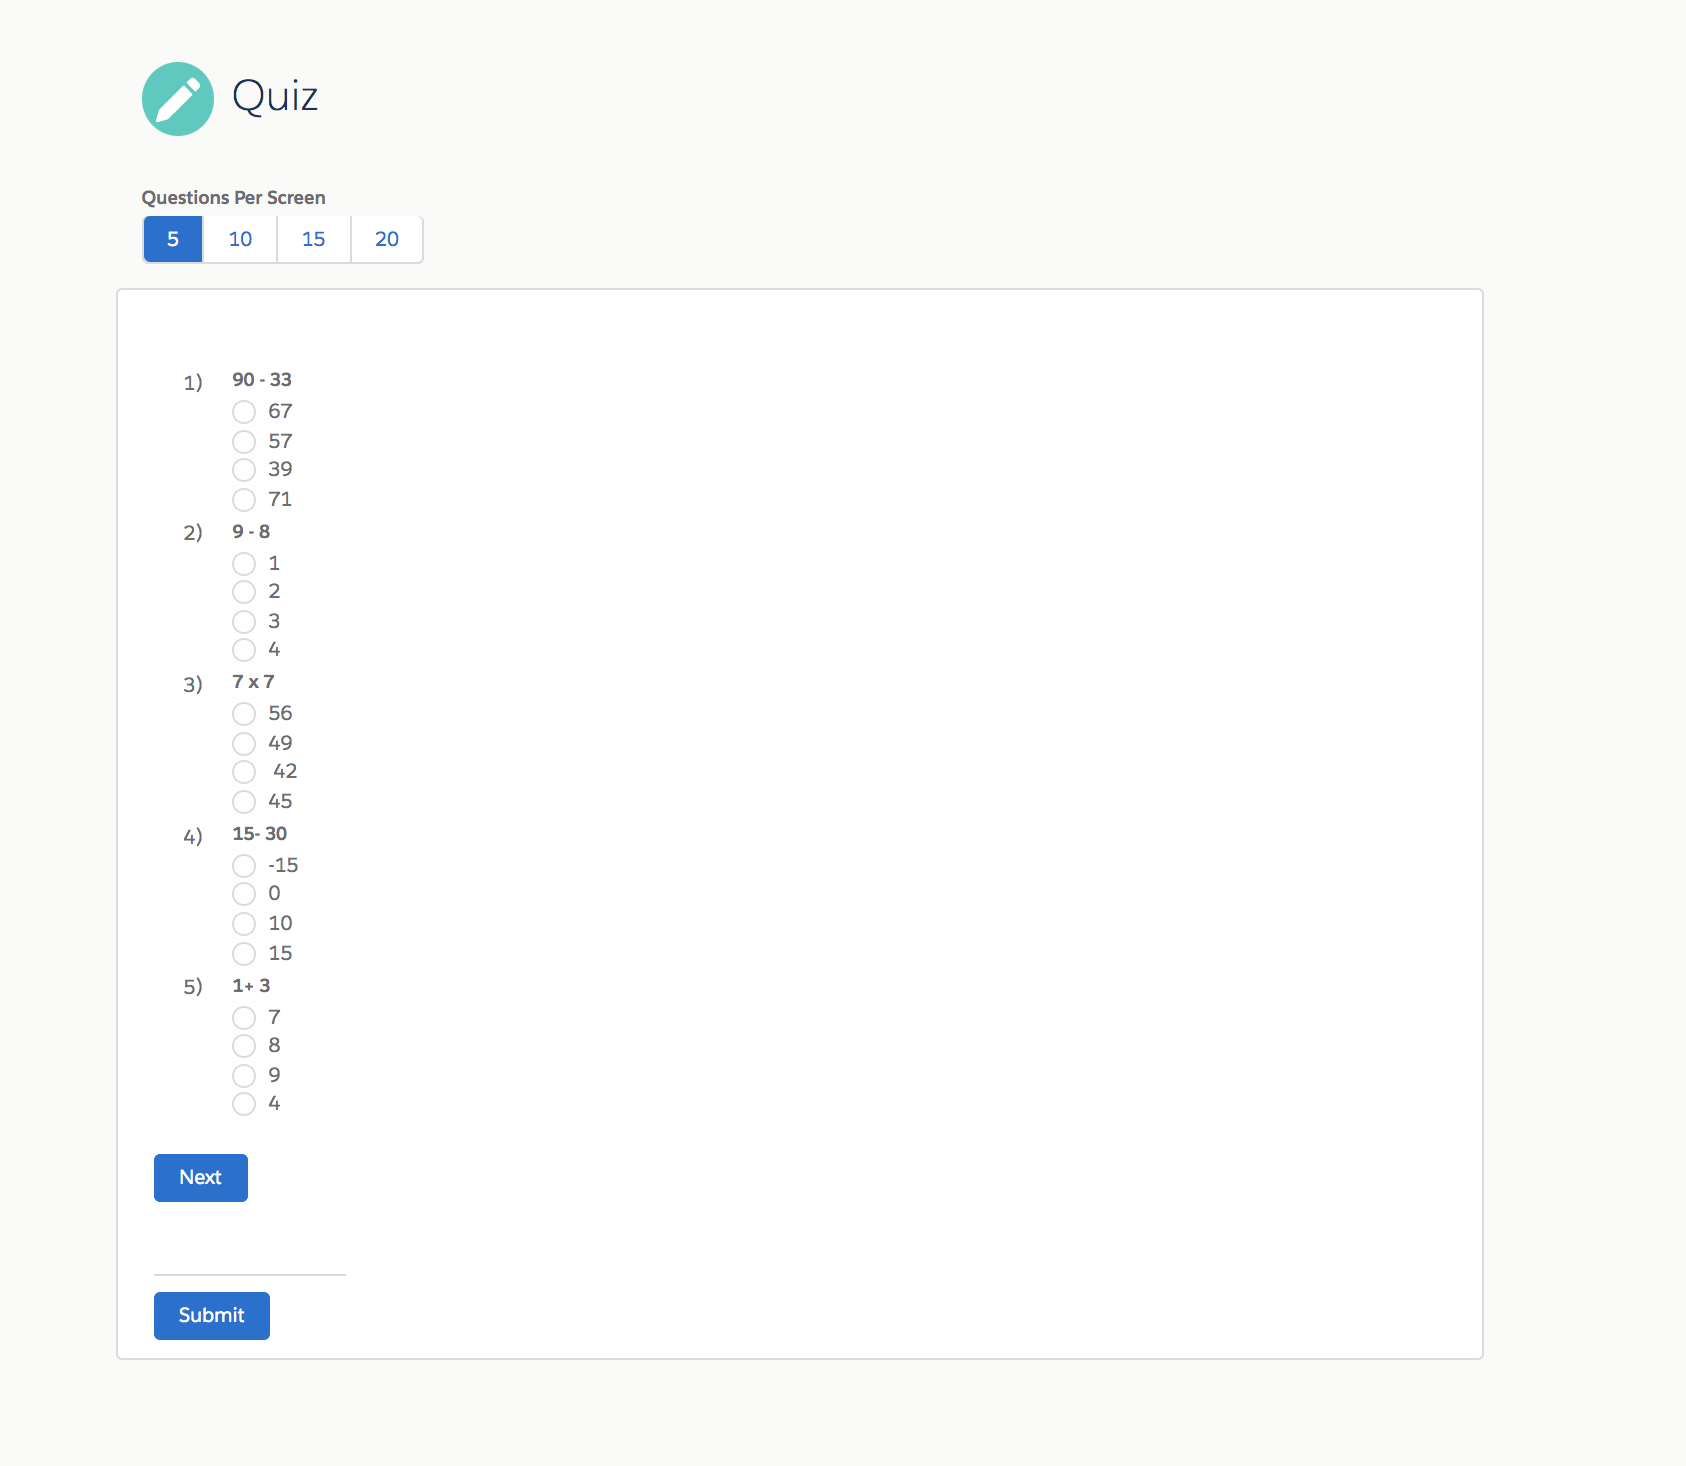
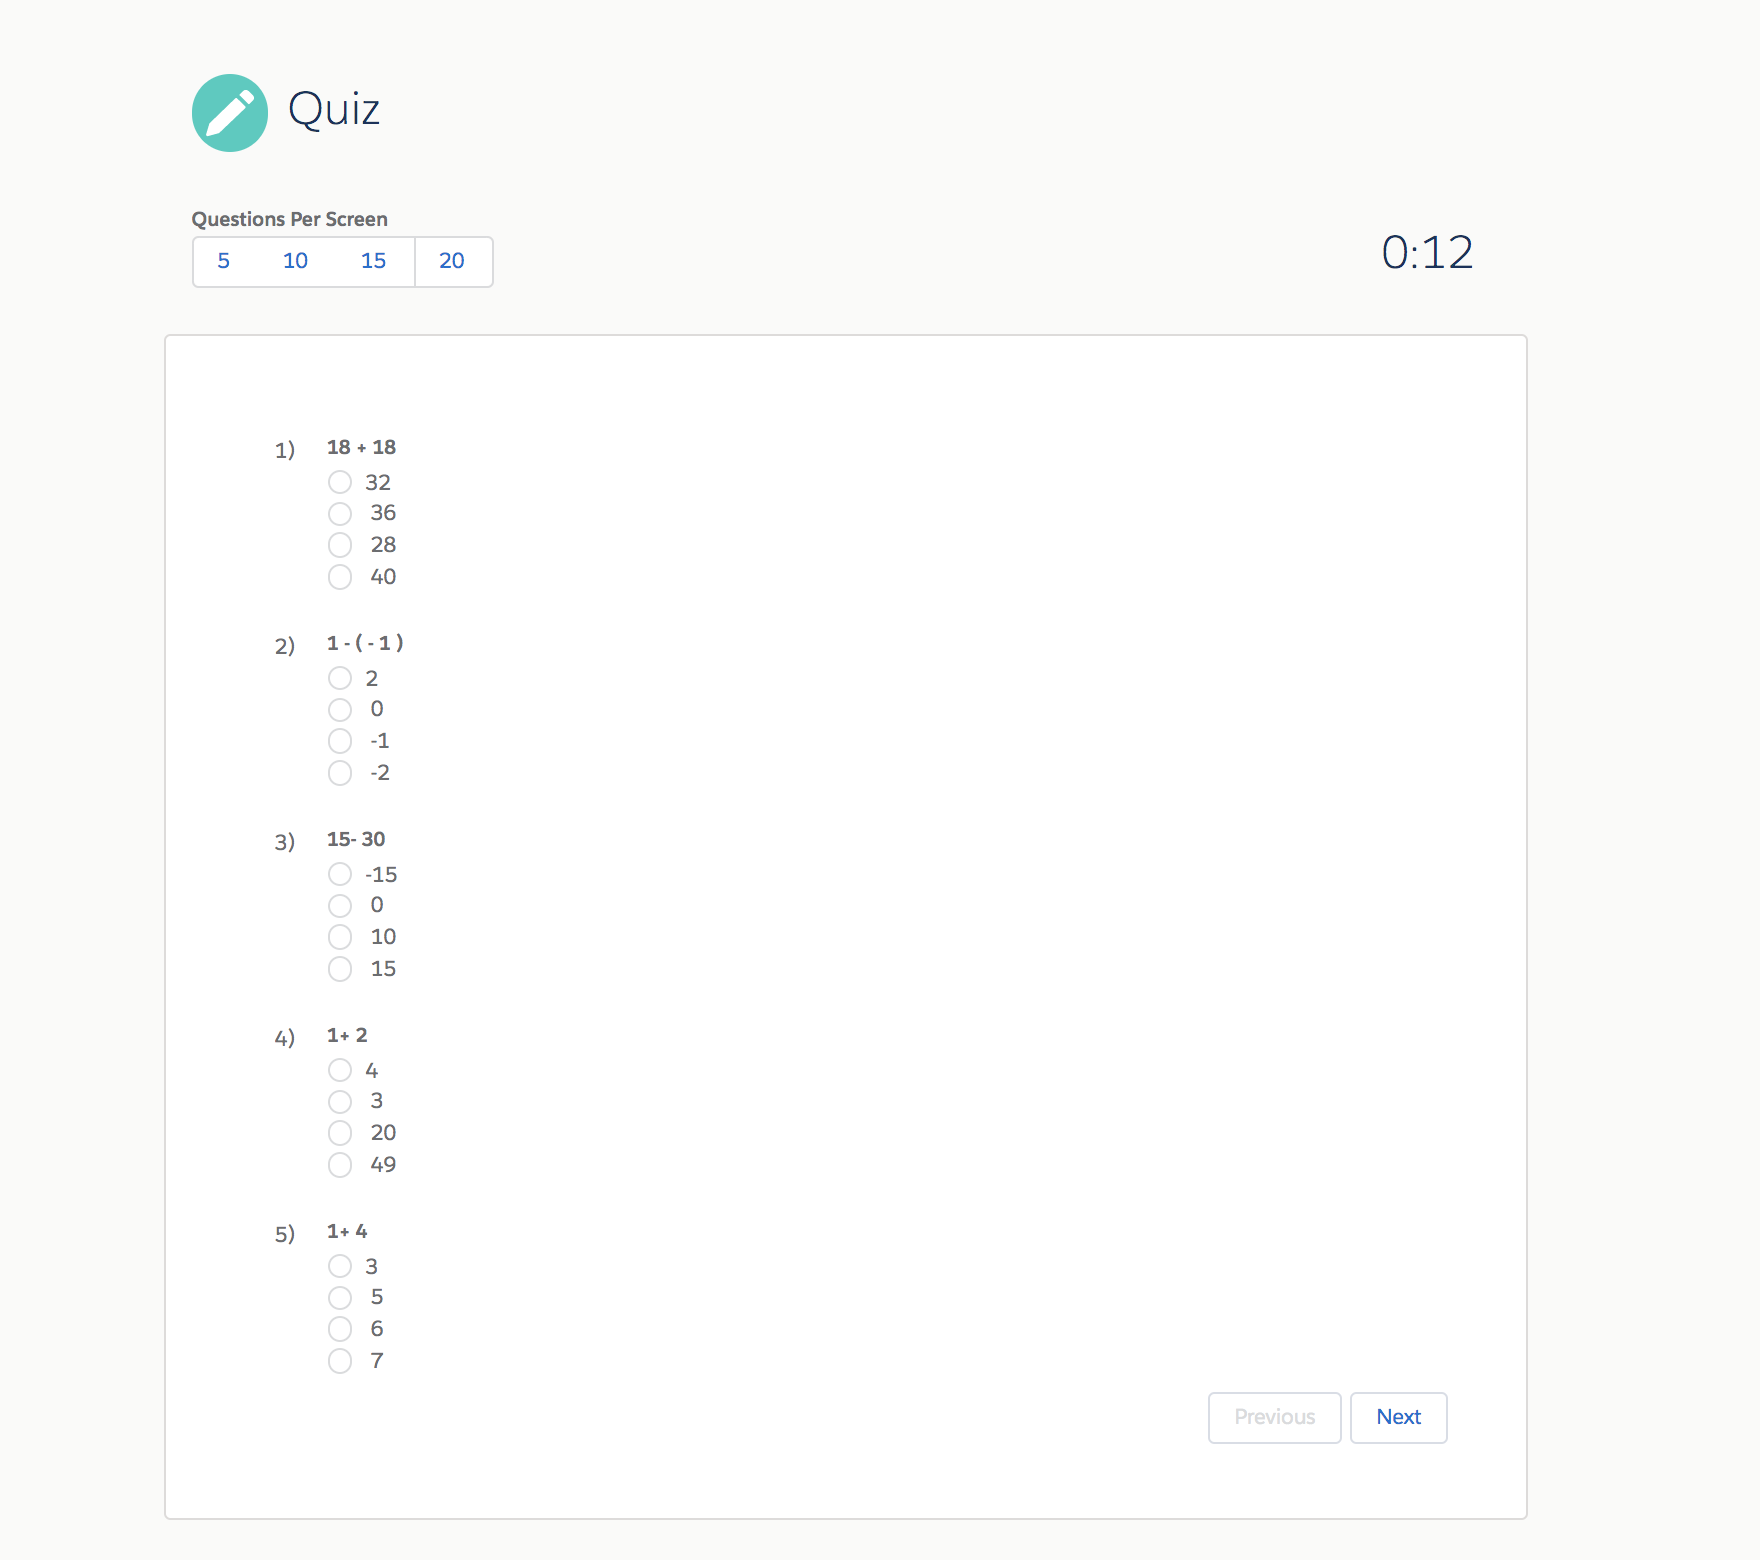
added pictures

diff --git a/Styles/Question.css b/Styles/Question.css
@@ -2,3 +2,20 @@
     color: #6c6d70;
     padding: 5px 20px;
 }
+
+.THIS .none{
+    display: none;
+}
+
+.THIS .block{
+    display: block;
+    padding: 10px 0px;
+}
+
+.THIS .unselectable { 
+    -webkit-user-select: none; 
+    -webkit-touch-callout: none; 
+    -moz-user-select: none; 
+    -ms-user-select: none; 
+    user-select: none;    
+}

diff --git a/Scripts/TimerController.js b/Scripts/TimerController.js
@@ -16,7 +16,6 @@
             
             if (stopTimer){
                 clearInterval(intervalID);
-                alert('stoppedddddd');
             }
             
             if ((counter === totalSeconds + 1)) {

diff --git a/README.md b/README.md
@@ -26,6 +26,10 @@
      alt="Quiz View"
      style="width: 500px" />
 
+<img src="./pictures/Quiz_Submit.png"
+     alt="Quiz Submit"
+     style="width: 500px" />
+
 <img src="./pictures/Quiz_Validation.png"
      alt="Quiz Validation"
      style="width: 500px" />
